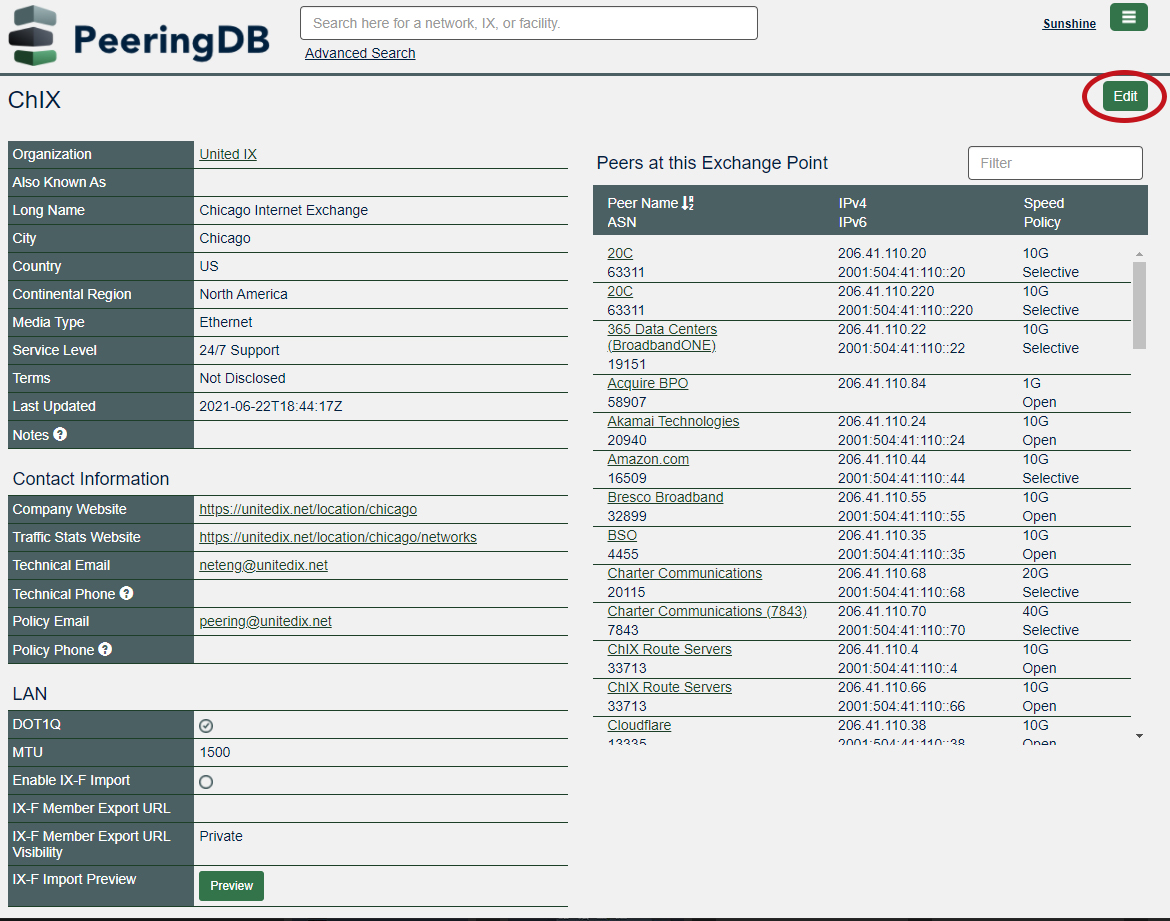
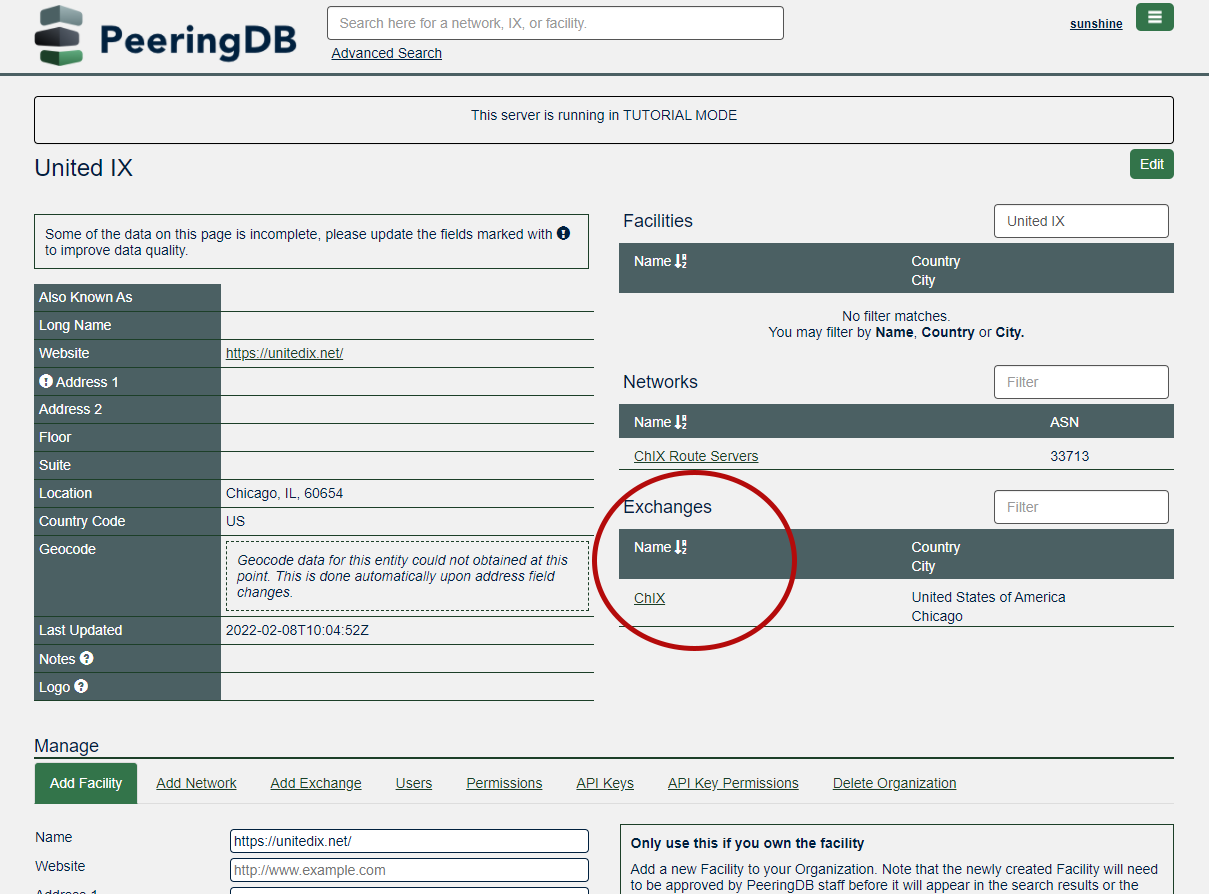
commit on main

diff --git a/docs/ixctl/Share-the-member-list.md b/docs/ixctl/Share-the-member-list.md
@@ -6,12 +6,11 @@
 3. Click on the Members tab at the top of the page. Right click on the IX-F Export button and choose “copy link address.”   
    ![](img/share-the-member-list-images/step3.png) 
 4. Go to PeeringDB and log in to your account. Go to your IX.  
-5. Click “Edit” in the upper right corner of the screen.  
-   ![](img/share-the-member-list-images/step5.png)   
-6. In the Exchanges section, click on the name of the exchange you want to work with.
+   ![](img/share-the-member-list-images/step4.png)   
+5. In the Exchanges section, click on the name of the exchange you want to work with.
+   ![](img/share-the-member-list-images/step5.png) 
+6. On the Exchange page, click on Edit in the upper right corner.
    ![](img/share-the-member-list-images/step6.png) 
-7. On the Exchange page, click on Edit in the upper right corner.
+7. Under LAN, check the box next to Enable IX-F Import. In the box for IX-F Member Export URL, paste the link you copied from the IXCtl website. Click Preview to request an import during the next update (midnight UTC) or click Request Import for an immediate import. Click save in the lower right corner of the page. 
    ![](img/share-the-member-list-images/step7.png) 
-8. Under LAN, check the box next to Enable IX-F Import. In the box for IX-F Member Export URL, paste the link you copied from the IXCtl website. Click Preview to request an import during the next update (midnight UTC) or click Request Import for an immediate import. Click save in the lower right corner of the page. 
-   ![](img/share-the-member-list-images/step8.png) 
 
